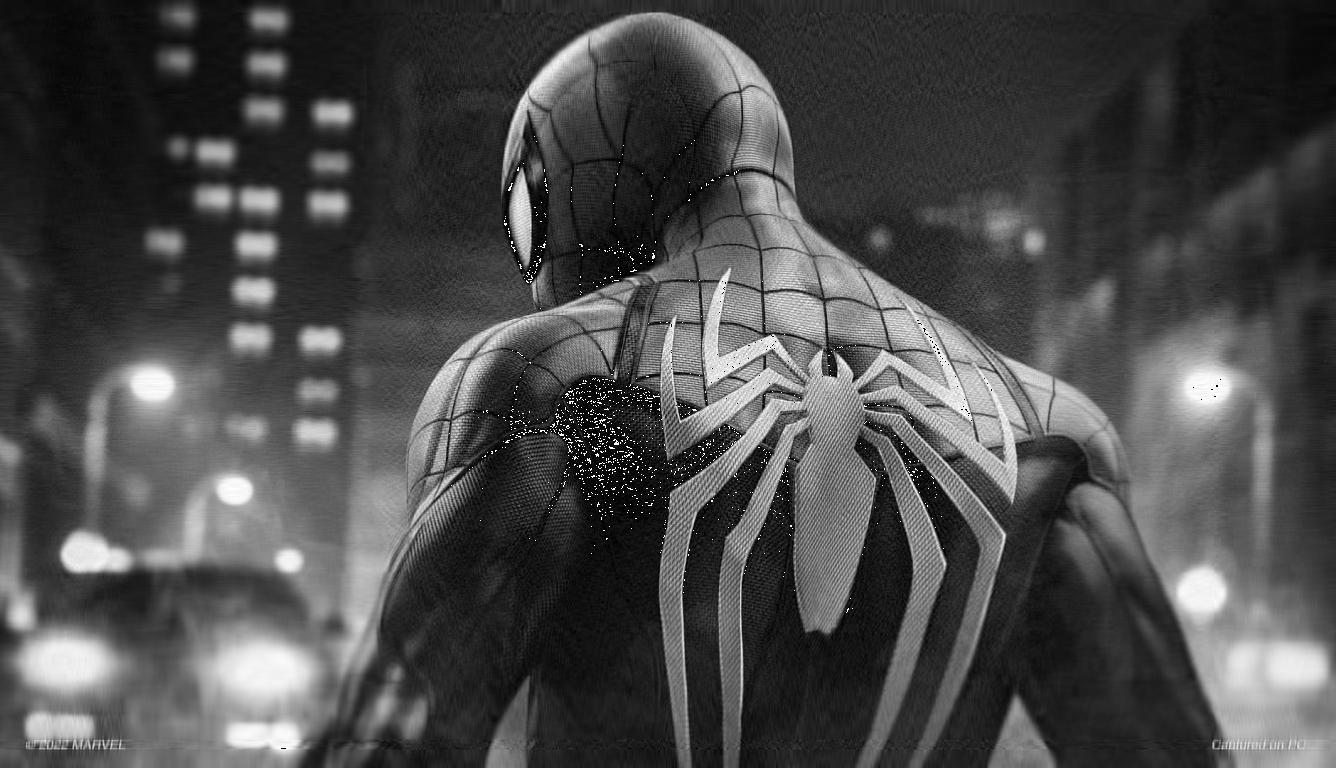
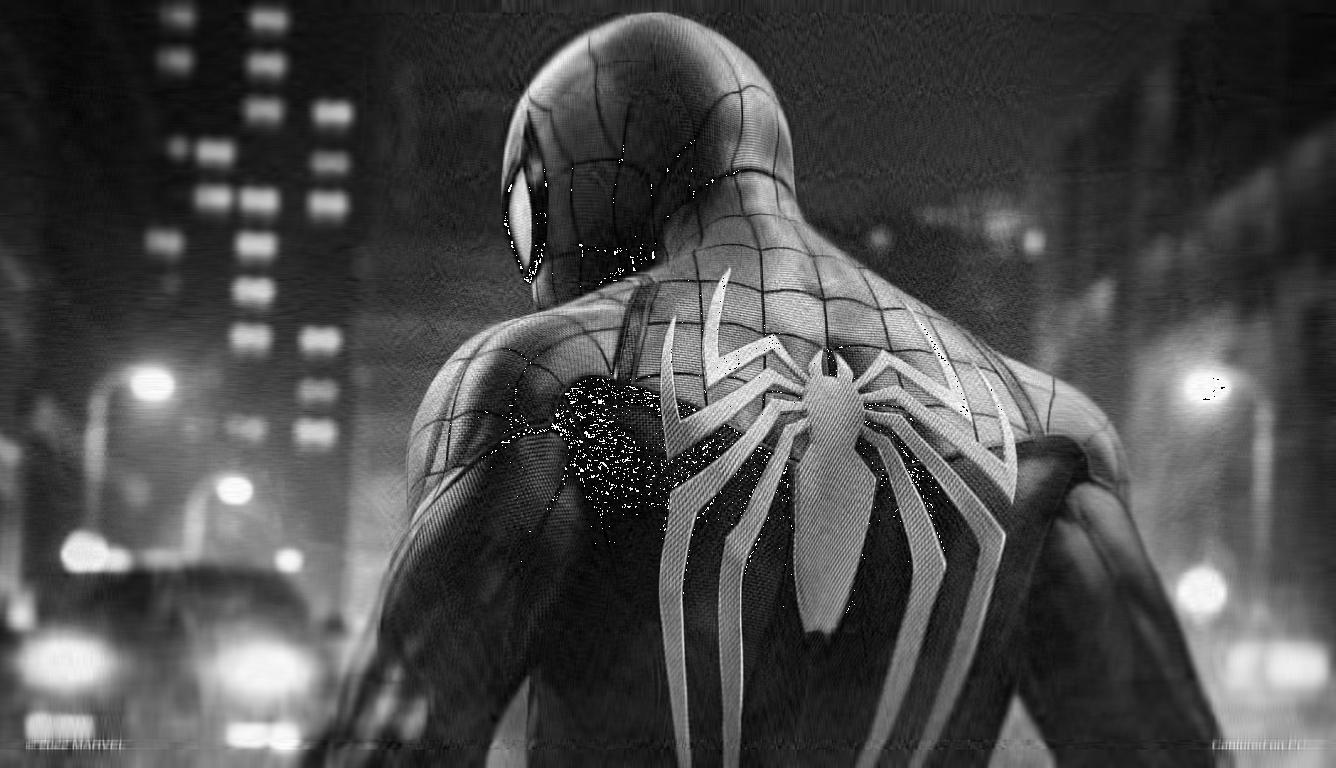
Updated commit

Changed region(s): [[0.3683, 0.4375, 0.6138, 0.6562], [0.6751, 0.5938, 0.7058, 0.625], [0.6445, 0.5312, 0.6751, 0.5625]]

diff --git a/SVD.py b/SVD.py
@@ -1,0 +1,31 @@
+import numpy as np
+
+# Generate a sample user-item matrix (replace this with your actual data)
+user_item_matrix = np.array([
+    [5, 3, 0, 1],
+    [4, 0, 0, 1],
+    [1, 1, 0, 5],
+    [0, 0, 0, 4],
+    [0, 1, 5, 4],
+])
+
+# Perform SVD
+U, sigma, Vt = np.linalg.svd(user_item_matrix, full_matrices=False)
+
+# Set the desired number of latent factors (adjust as needed)
+k = 2
+
+# Reduce dimensionality by retaining the top-k singular values and corresponding vectors
+U_k = U[:, :k]
+sigma_k = np.diag(sigma[:k])
+Vt_k = Vt[:k, :]
+
+# Reconstruct the user-item matrix using the reduced matrices
+user_item_matrix_reconstructed = np.dot(np.dot(U_k, sigma_k), Vt_k)
+
+# Print the original and reconstructed matrices
+print("Original User-Item Matrix:")
+print(user_item_matrix)
+print("\nReconstructed User-Item Matrix:")
+print(user_item_matrix_reconstructed)
+

diff --git a/Compression.py b/Compression.py
@@ -8,7 +8,7 @@ image = image.convert('L') #greyscale
 data = np.array(image)
 
 #Apply PCA
-pca = PCA(128) #Compression level adjusting
+pca = PCA(100) #Compression level adjusting
 compressed_data = pca.fit_transform(data)
 reconstructed_data = pca.inverse_transform(compressed_data)
 
